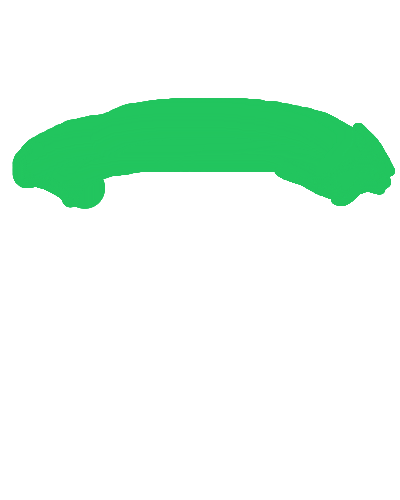
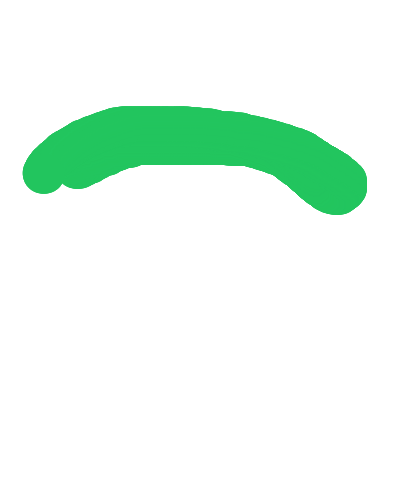
Clean up missing wrapper/flower assets, default to main wrapper, and configure korean_wrap constants

Changed region(s): [[0.27, 0.18, 0.99, 0.45], [0.03, 0.24, 0.27, 0.42], [0.24, 0.21, 0.3, 0.24]]

diff --git a/src/components/creator/BouquetDesigner.tsx b/src/components/creator/BouquetDesigner.tsx
@@ -43,6 +43,12 @@ const DEFAULT_WRAPPER_CONFIGS: Record<string, { bottomOffset: number, wrapperSca
     wrapperScale: 1.15,
     translateY: 0,
     frontClipPath: "polygon(0% 100%, 100% 100%, 100% 25%, 95% 28%, 90% 32%, 85% 36%, 80% 40%, 75% 44%, 70% 47%, 65% 50%, 60% 52%, 55% 53%, 50% 54%, 45% 53%, 40% 52%, 35% 50%, 30% 47%, 25% 44%, 20% 40%, 15% 36%, 10% 32%, 5% 28%, 0% 25%)"
+  },
+  korean_wrap: {
+    bottomOffset: 160,
+    wrapperScale: 1.15,
+    translateY: 0,
+    frontClipPath: "polygon(0% 100%, 100% 100%, 100% 25%, 95% 28%, 90% 32%, 85% 36%, 80% 40%, 75% 44%, 70% 47%, 65% 50%, 60% 52%, 55% 53%, 50% 54%, 45% 53%, 40% 52%, 35% 50%, 30% 47%, 25% 44%, 20% 40%, 15% 36%, 10% 32%, 5% 28%, 0% 25%)"
   }
 };
 
@@ -53,15 +59,14 @@ const DEFAULT_POLYGONS: Record<string, string> = {
   main: "polygon(15% 25%, 85% 25%, 50% 85%)",
   paper: "polygon(15% 25%, 85% 25%, 50% 85%)",
   "2": "polygon(15% 25%, 85% 25%, 50% 85%)",
+  korean_wrap: "polygon(15% 25%, 85% 25%, 50% 85%)",
 };
 
 const DEFAULT_WRAPPERS = [
-  { id: "classic", label: "Classic Elegance", url: "/bouquets/wrapper_classic.svg", ext: "svg" },
-  { id: "modern", label: "Modern Edge", url: "/bouquets/wrapper_modern.svg", ext: "svg" },
-  { id: "kraft", label: "Rustic Kraft", url: "/bouquets/wrapper_kraft.svg", ext: "svg" },
   { id: "main", label: "Sweet Satin", url: "/bouquets/wrapper_main.png", ext: "png" },
   { id: "paper", label: "Vintage Paper", url: "/bouquets/wrapper_paper.png", ext: "png" },
-  { id: "2", label: "Blushing Ribbon", url: "/bouquets/wrapper_2.png", ext: "png" }
+  { id: "2", label: "Blushing Ribbon", url: "/bouquets/wrapper_2.png", ext: "png" },
+  { id: "korean_wrap", label: "Korean Wrap", url: "/bouquets/korean_wrap.png", ext: "png" }
 ];
 
 const DEFAULT_FLOWERS = [
@@ -70,7 +75,6 @@ const DEFAULT_FLOWERS = [
   { id: "sunflower", label: "Sunflower", url: "/flowers/sunflower.svg" },
   { id: "cherry", label: "Cherry", url: "/flowers/cherry_blossom.svg" },
   { id: "hibiscus", label: "Hibiscus", url: "/flowers/hibiscus.svg" },
-  { id: "blossom", label: "Blossom", url: "/flowers/blossom.svg" },
   { id: "lotus", label: "Lotus", url: "/flowers/lotus.png" }
 ];
 
@@ -218,7 +222,7 @@ export function BouquetDesigner({
   };
 
   // Find active wrapper configurations
-  const activeWrapper = finalWrappers.find(w => w.id === bouquetWrapper) || finalWrappers[0] || { id: "classic", label: "Classic Elegance", url: "/bouquets/wrapper_classic.svg" };
+  const activeWrapper = finalWrappers.find(w => w.id === bouquetWrapper) || finalWrappers[0] || { id: "main", label: "Sweet Satin", url: "/bouquets/wrapper_main.png" };
   const defaultConfig = DEFAULT_WRAPPER_CONFIGS[activeWrapper.id] || DEFAULT_WRAPPER_CONFIGS.classic;
   const customConfig = customWrapperConfigs[activeWrapper.id];
   

diff --git a/src/components/receiver/BouquetViewer.tsx b/src/components/receiver/BouquetViewer.tsx
@@ -11,6 +11,7 @@ const WRAPPER_EXT: Record<string, string> = {
   main: "png",
   paper: "png",
   "2": "png",
+  korean_wrap: "png",
 };
 
 const WRAPPER_CONFIGS: Record<string, { bottomOffset: number, wrapperScale: number, translateY: number, frontClipPath: string }> = {
@@ -49,6 +50,12 @@ const WRAPPER_CONFIGS: Record<string, { bottomOffset: number, wrapperScale: numb
     wrapperScale: 1.15,
     translateY: 0,
     frontClipPath: "polygon(0% 100%, 100% 100%, 100% 25%, 95% 28%, 90% 32%, 85% 36%, 80% 40%, 75% 44%, 70% 47%, 65% 50%, 60% 52%, 55% 53%, 50% 54%, 45% 53%, 40% 52%, 35% 50%, 30% 47%, 25% 44%, 20% 40%, 15% 36%, 10% 32%, 5% 28%, 0% 25%)"
+  },
+  korean_wrap: {
+    bottomOffset: 160,
+    wrapperScale: 1.15,
+    translateY: 0,
+    frontClipPath: "polygon(0% 100%, 100% 100%, 100% 25%, 95% 28%, 90% 32%, 85% 36%, 80% 40%, 75% 44%, 70% 47%, 65% 50%, 60% 52%, 55% 53%, 50% 54%, 45% 53%, 40% 52%, 35% 50%, 30% 47%, 25% 44%, 20% 40%, 15% 36%, 10% 32%, 5% 28%, 0% 25%)"
   }
 };
 
@@ -59,15 +66,14 @@ const DEFAULT_POLYGONS: Record<string, string> = {
   main: "polygon(15% 25%, 85% 25%, 50% 85%)",
   paper: "polygon(15% 25%, 85% 25%, 50% 85%)",
   "2": "polygon(15% 25%, 85% 25%, 50% 85%)",
+  korean_wrap: "polygon(15% 25%, 85% 25%, 50% 85%)",
 };
 
 const DEFAULT_WRAPPERS = [
-  { id: "classic", label: "Classic Elegance", url: "/bouquets/wrapper_classic.svg", ext: "svg" },
-  { id: "modern", label: "Modern Edge", url: "/bouquets/wrapper_modern.svg", ext: "svg" },
-  { id: "kraft", label: "Rustic Kraft", url: "/bouquets/wrapper_kraft.svg", ext: "svg" },
   { id: "main", label: "Sweet Satin", url: "/bouquets/wrapper_main.png", ext: "png" },
   { id: "paper", label: "Vintage Paper", url: "/bouquets/wrapper_paper.png", ext: "png" },
-  { id: "2", label: "Blushing Ribbon", url: "/bouquets/wrapper_2.png", ext: "png" }
+  { id: "2", label: "Blushing Ribbon", url: "/bouquets/wrapper_2.png", ext: "png" },
+  { id: "korean_wrap", label: "Korean Wrap", url: "/bouquets/korean_wrap.png", ext: "png" }
 ];
 
 const DEFAULT_FLOWERS = [
@@ -76,7 +82,6 @@ const DEFAULT_FLOWERS = [
   { id: "sunflower", label: "Sunflower", url: "/flowers/sunflower.svg" },
   { id: "cherry", label: "Cherry", url: "/flowers/cherry_blossom.svg" },
   { id: "hibiscus", label: "Hibiscus", url: "/flowers/hibiscus.svg" },
-  { id: "blossom", label: "Blossom", url: "/flowers/blossom.svg" },
   { id: "lotus", label: "Lotus", url: "/flowers/lotus.png" }
 ];
 

diff --git a/src/store/useCreatorStore.ts b/src/store/useCreatorStore.ts
@@ -93,9 +93,6 @@ export interface CreatorState {
 }
 
 const defaultWrappers = [
-  { id: "classic", label: "Classic Elegance", url: "/bouquets/wrapper_classic.svg", ext: "svg" },
-  { id: "modern", label: "Modern Edge", url: "/bouquets/wrapper_modern.svg", ext: "svg" },
-  { id: "kraft", label: "Rustic Kraft", url: "/bouquets/wrapper_kraft.svg", ext: "svg" },
   { id: "main", label: "Sweet Satin", url: "/bouquets/wrapper_main.png", ext: "png" },
   { id: "paper", label: "Vintage Paper", url: "/bouquets/wrapper_paper.png", ext: "png" },
   { id: "2", label: "Blushing Ribbon", url: "/bouquets/wrapper_2.png", ext: "png" },
@@ -108,7 +105,6 @@ const defaultFlowers = [
   { id: "sunflower", label: "Sunflower", url: "/flowers/sunflower.svg" },
   { id: "cherry", label: "Cherry", url: "/flowers/cherry_blossom.svg" },
   { id: "hibiscus", label: "Hibiscus", url: "/flowers/hibiscus.svg" },
-  { id: "blossom", label: "Blossom", url: "/flowers/blossom.svg" },
   { id: "lotus", label: "Lotus", url: "/flowers/lotus.png" }
 ];
 
@@ -123,7 +119,7 @@ const initialState = {
   letterContent: '',
   photos: [],
   flowers: [],
-  bouquetWrapper: 'classic',
+  bouquetWrapper: 'main',
   customWrapperConfigs: {
     korean_wrap: {
       visibleMaskUrl: "/bouquets/visible_korean_wrap.png",

diff --git a/src/components/creator/ClipPathEditor.tsx b/src/components/creator/ClipPathEditor.tsx
@@ -12,6 +12,7 @@ const WRAPPER_EXT: Record<string, string> = {
   main: "png",
   paper: "png",
   "2": "png",
+  korean_wrap: "png",
 };
 
 export function ClipPathEditor({ 